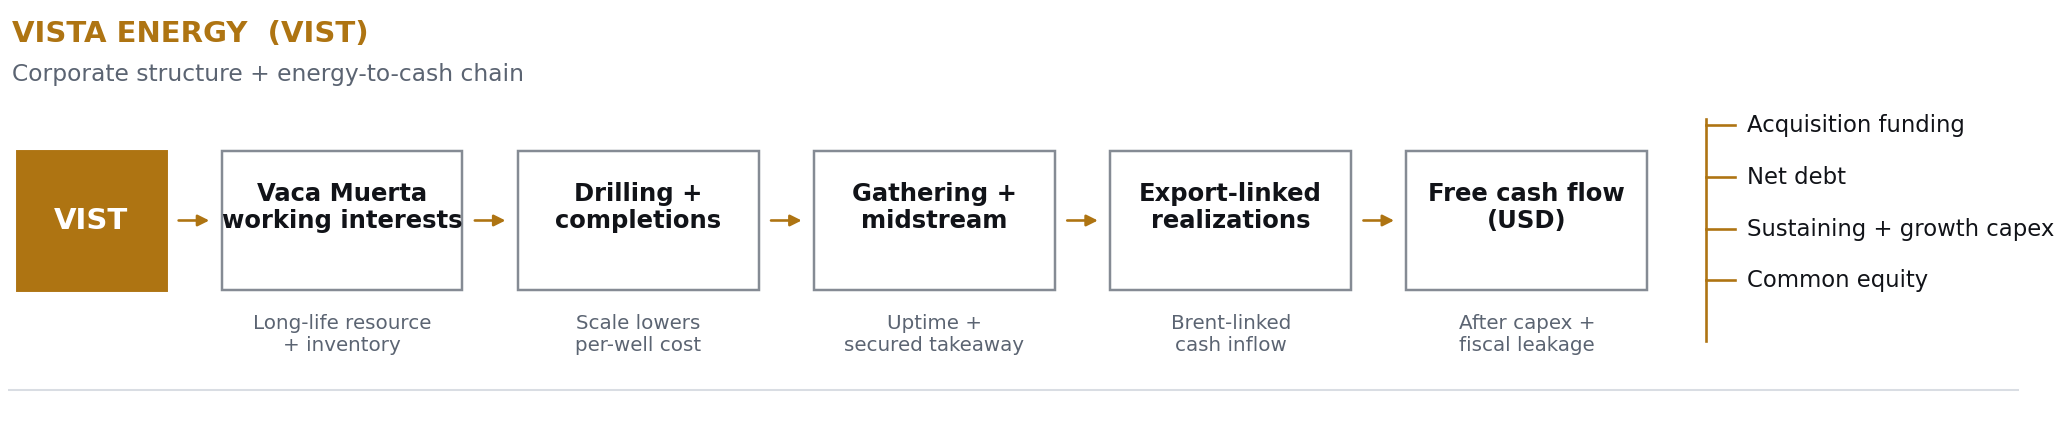
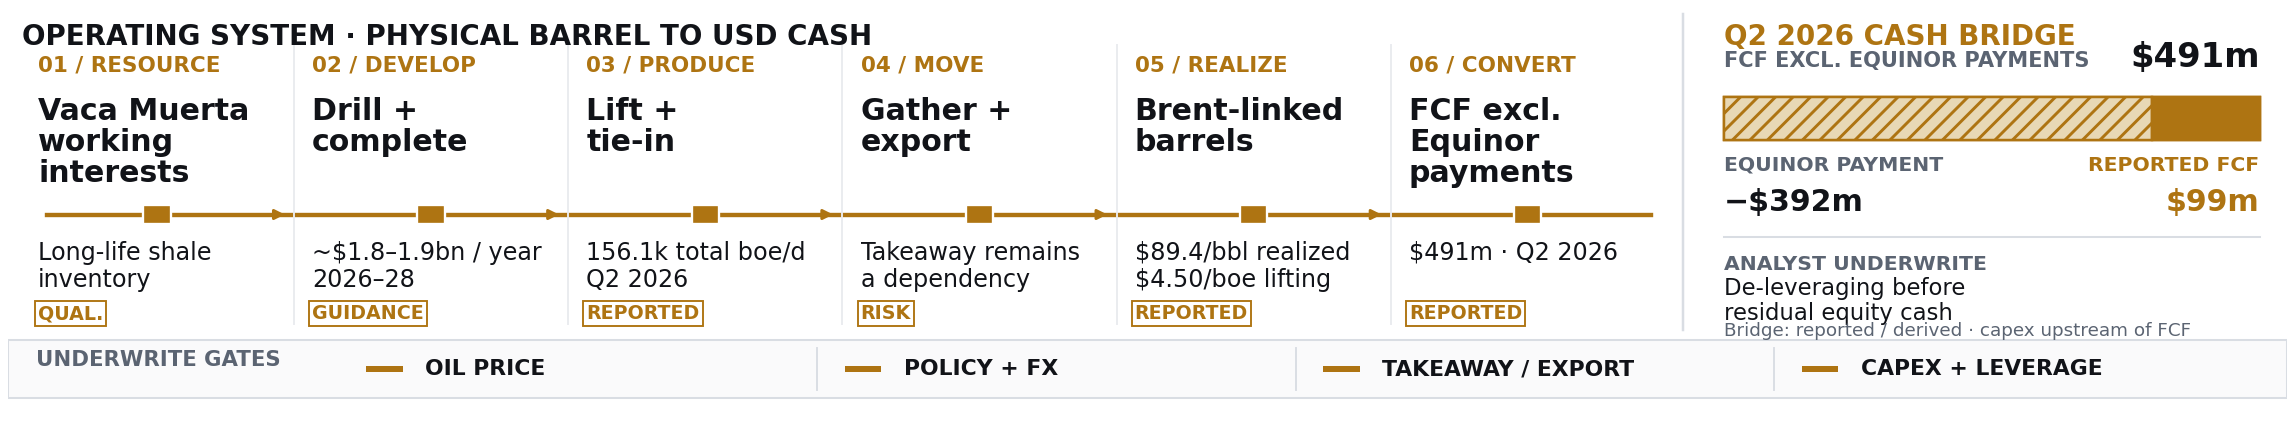
Redesign research system maps

diff --git a/react-site/research/vista-vs-vistra/index.html b/react-site/research/vista-vs-vistra/index.html
@@ -2308,7 +2308,7 @@
       }
     }
   </style>
-  <link rel="stylesheet" href="dossier.css?v=20260826-6" />
+  <link rel="stylesheet" href="dossier.css?v=20260826-8" />
 </head>
 <body>
   <a class="skip-link" href="#main">Skip to report</a>
@@ -2397,15 +2397,15 @@
     <section class="report-section dossier-systems" id="systems" aria-labelledby="systems-title">
       <div class="systems-intro">
         <h2 id="systems-title">From scarce asset to common equity</h2>
-        <p>The diagrams combine operating logistics with the capital claims that sit between physical output and shareholder cash.</p>
+        <p>The diagrams separate operating flow, cash conversion, capital decisions and the gates that can interrupt the path to equity.</p>
       </div>
 
       <div class="system-row vista" data-scroll-region role="region" aria-label="Vista value chain and asset footprint. Scroll horizontally to compare on small screens.">
         <figure class="system-panel system-diagram">
-          <figcaption><strong>Vista Energy · Oil value chain</strong><span>Working interests → drilling → takeaway → export realizations → free cash flow</span></figcaption>
+          <figcaption><strong>Vista Energy · Oil value chain</strong><span>Operating rail · Q2 cash bridge · explicit underwrite gates</span></figcaption>
           <picture>
-            <source media="(max-width: 680px)" srcset="assets/diagram-vista-system-mobile.png" />
-            <img src="assets/diagram-vista-system.png" width="2062" height="427" alt="Vista Energy system diagram from Vaca Muerta working interests through drilling, gathering, export-linked realizations and free cash flow, with capital allocation claims." />
+            <source media="(max-width: 680px)" srcset="assets/diagram-vista-system-mobile.png?v=20260826-8" width="928" height="582" />
+            <img src="assets/diagram-vista-system.png?v=20260826-8" width="2295" height="421" alt="Vista Energy operating system from Vaca Muerta working interests through development, total production, export and Brent-linked realization to free cash flow excluding Equinor payments, alongside the Q2 2026 Equinor transaction-payment bridge and four underwrite gates." />
           </picture>
         </figure>
         <figure class="system-panel system-map">
@@ -2416,10 +2416,10 @@
 
       <div class="system-row vistra" data-scroll-region role="region" aria-label="Vistra value chain and asset footprint. Scroll horizontally to compare on small screens.">
         <figure class="system-panel system-diagram">
-          <figcaption><strong>Vistra · Power value chain</strong><span>Generation → ISO markets → retail and contracted load → FCFbG</span></figcaption>
+          <figcaption><strong>Vistra · Power value chain</strong><span>Branched fleet network · hedge overlay · future optionality · capital claims and uses</span></figcaption>
           <picture>
-            <source media="(max-width: 680px)" srcset="assets/diagram-vistra-system-mobile.png" />
-            <img src="assets/diagram-vistra-system.png" width="2100" height="427" alt="Vistra system diagram from nuclear and gas generation through ISO markets, retail and contracted load to free cash flow before growth, with capital allocation claims." />
+            <source media="(max-width: 680px)" srcset="assets/diagram-vistra-system-mobile.png?v=20260826-8" width="765" height="1181" />
+            <img src="assets/diagram-vistra-system.png?v=20260826-8" width="2342" height="421" alt="Vistra system map showing nuclear and gas generation branching through ERCOT and PJM markets and retail, expected-generation hedge coverage, 2026 guidance midpoints, future Cogentrix and Meta optionality excluded from that guidance, and capital claims and uses." />
           </picture>
         </figure>
         <figure class="system-panel system-map">

diff --git a/research/vista-vs-vistra/index.html b/research/vista-vs-vistra/index.html
@@ -2308,7 +2308,7 @@
       }
     }
   </style>
-  <link rel="stylesheet" href="dossier.css?v=20260826-6" />
+  <link rel="stylesheet" href="dossier.css?v=20260826-8" />
 </head>
 <body>
   <a class="skip-link" href="#main">Skip to report</a>
@@ -2397,15 +2397,15 @@
     <section class="report-section dossier-systems" id="systems" aria-labelledby="systems-title">
       <div class="systems-intro">
         <h2 id="systems-title">From scarce asset to common equity</h2>
-        <p>The diagrams combine operating logistics with the capital claims that sit between physical output and shareholder cash.</p>
+        <p>The diagrams separate operating flow, cash conversion, capital decisions and the gates that can interrupt the path to equity.</p>
       </div>
 
       <div class="system-row vista" data-scroll-region role="region" aria-label="Vista value chain and asset footprint. Scroll horizontally to compare on small screens.">
         <figure class="system-panel system-diagram">
-          <figcaption><strong>Vista Energy · Oil value chain</strong><span>Working interests → drilling → takeaway → export realizations → free cash flow</span></figcaption>
+          <figcaption><strong>Vista Energy · Oil value chain</strong><span>Operating rail · Q2 cash bridge · explicit underwrite gates</span></figcaption>
           <picture>
-            <source media="(max-width: 680px)" srcset="assets/diagram-vista-system-mobile.png" />
-            <img src="assets/diagram-vista-system.png" width="2062" height="427" alt="Vista Energy system diagram from Vaca Muerta working interests through drilling, gathering, export-linked realizations and free cash flow, with capital allocation claims." />
+            <source media="(max-width: 680px)" srcset="assets/diagram-vista-system-mobile.png?v=20260826-8" width="928" height="582" />
+            <img src="assets/diagram-vista-system.png?v=20260826-8" width="2295" height="421" alt="Vista Energy operating system from Vaca Muerta working interests through development, total production, export and Brent-linked realization to free cash flow excluding Equinor payments, alongside the Q2 2026 Equinor transaction-payment bridge and four underwrite gates." />
           </picture>
         </figure>
         <figure class="system-panel system-map">
@@ -2416,10 +2416,10 @@
 
       <div class="system-row vistra" data-scroll-region role="region" aria-label="Vistra value chain and asset footprint. Scroll horizontally to compare on small screens.">
         <figure class="system-panel system-diagram">
-          <figcaption><strong>Vistra · Power value chain</strong><span>Generation → ISO markets → retail and contracted load → FCFbG</span></figcaption>
+          <figcaption><strong>Vistra · Power value chain</strong><span>Branched fleet network · hedge overlay · future optionality · capital claims and uses</span></figcaption>
           <picture>
-            <source media="(max-width: 680px)" srcset="assets/diagram-vistra-system-mobile.png" />
-            <img src="assets/diagram-vistra-system.png" width="2100" height="427" alt="Vistra system diagram from nuclear and gas generation through ISO markets, retail and contracted load to free cash flow before growth, with capital allocation claims." />
+            <source media="(max-width: 680px)" srcset="assets/diagram-vistra-system-mobile.png?v=20260826-8" width="765" height="1181" />
+            <img src="assets/diagram-vistra-system.png?v=20260826-8" width="2342" height="421" alt="Vistra system map showing nuclear and gas generation branching through ERCOT and PJM markets and retail, expected-generation hedge coverage, 2026 guidance midpoints, future Cogentrix and Meta optionality excluded from that guidance, and capital claims and uses." />
           </picture>
         </figure>
         <figure class="system-panel system-map">

diff --git a/react-site/research/vista-vs-vistra/dossier.css b/react-site/research/vista-vs-vistra/dossier.css
@@ -401,16 +401,16 @@ main {
 }
 
 .hero-call {
-  padding: 0.05rem 0 0.05rem 0.9rem;
-  border-left: 3px solid var(--line-dark);
+  padding: 0.5rem 0 0.05rem;
+  border-top: 2px solid var(--line-dark);
 }
 
 .hero-call.vistra {
-  border-left-color: var(--vistra);
+  border-top-color: var(--vistra);
 }
 
 .hero-call.vista {
-  border-left-color: var(--vista);
+  border-top-color: var(--vista);
 }
 
 .hero-call strong {
@@ -978,9 +978,9 @@ tbody th {
 }
 
 .company-intro aside {
-  padding-left: 0.8rem;
+  padding-top: 0.55rem;
   color: var(--muted);
-  border-left: 2px solid var(--line-dark);
+  border-top: 2px solid var(--line-dark);
   font-size: 0.67rem;
   line-height: 1.45;
 }
@@ -2626,6 +2626,29 @@ footer {
   }
 }
 
+@media (max-width: 1280px) and (min-width: 681px) {
+  .system-row {
+    grid-template-columns: 1fr;
+  }
+
+  .system-panel + .system-panel {
+    padding: 0.5rem 0 0.35rem;
+    border-top: 1px solid var(--line);
+    border-left: 0;
+  }
+
+  .system-panel img {
+    height: auto;
+    max-height: 13rem;
+  }
+
+  .system-panel figcaption {
+    display: grid;
+    grid-template-columns: 1fr;
+    gap: 0.12rem;
+  }
+}
+
 @media (max-width: 980px) {
   :root {
     --rail: 0rem;
@@ -2746,7 +2769,7 @@ footer {
 
   .system-panel,
   .system-panel + .system-panel {
-    min-width: 86vw;
+    min-width: 94vw;
     padding: 0.55rem 0.65rem 0.45rem 0;
     border-top: 0;
     border-right: 1px solid var(--line);
@@ -2757,6 +2780,17 @@ footer {
   .system-panel img {
     height: 13rem;
     max-height: 13rem;
+  }
+
+  .system-diagram img {
+    width: min(100%, 30rem);
+    height: auto;
+    max-height: none;
+  }
+
+  .system-row.vistra .system-diagram img {
+    width: min(100%, 18rem);
+    margin-inline: auto;
   }
 
   .snapshot,

diff --git a/research/vista-vs-vistra/dossier.css b/research/vista-vs-vistra/dossier.css
@@ -401,16 +401,16 @@ main {
 }
 
 .hero-call {
-  padding: 0.05rem 0 0.05rem 0.9rem;
-  border-left: 3px solid var(--line-dark);
+  padding: 0.5rem 0 0.05rem;
+  border-top: 2px solid var(--line-dark);
 }
 
 .hero-call.vistra {
-  border-left-color: var(--vistra);
+  border-top-color: var(--vistra);
 }
 
 .hero-call.vista {
-  border-left-color: var(--vista);
+  border-top-color: var(--vista);
 }
 
 .hero-call strong {
@@ -978,9 +978,9 @@ tbody th {
 }
 
 .company-intro aside {
-  padding-left: 0.8rem;
+  padding-top: 0.55rem;
   color: var(--muted);
-  border-left: 2px solid var(--line-dark);
+  border-top: 2px solid var(--line-dark);
   font-size: 0.67rem;
   line-height: 1.45;
 }
@@ -2626,6 +2626,29 @@ footer {
   }
 }
 
+@media (max-width: 1280px) and (min-width: 681px) {
+  .system-row {
+    grid-template-columns: 1fr;
+  }
+
+  .system-panel + .system-panel {
+    padding: 0.5rem 0 0.35rem;
+    border-top: 1px solid var(--line);
+    border-left: 0;
+  }
+
+  .system-panel img {
+    height: auto;
+    max-height: 13rem;
+  }
+
+  .system-panel figcaption {
+    display: grid;
+    grid-template-columns: 1fr;
+    gap: 0.12rem;
+  }
+}
+
 @media (max-width: 980px) {
   :root {
     --rail: 0rem;
@@ -2746,7 +2769,7 @@ footer {
 
   .system-panel,
   .system-panel + .system-panel {
-    min-width: 86vw;
+    min-width: 94vw;
     padding: 0.55rem 0.65rem 0.45rem 0;
     border-top: 0;
     border-right: 1px solid var(--line);
@@ -2757,6 +2780,17 @@ footer {
   .system-panel img {
     height: 13rem;
     max-height: 13rem;
+  }
+
+  .system-diagram img {
+    width: min(100%, 30rem);
+    height: auto;
+    max-height: none;
+  }
+
+  .system-row.vistra .system-diagram img {
+    width: min(100%, 18rem);
+    margin-inline: auto;
   }
 
   .snapshot,
